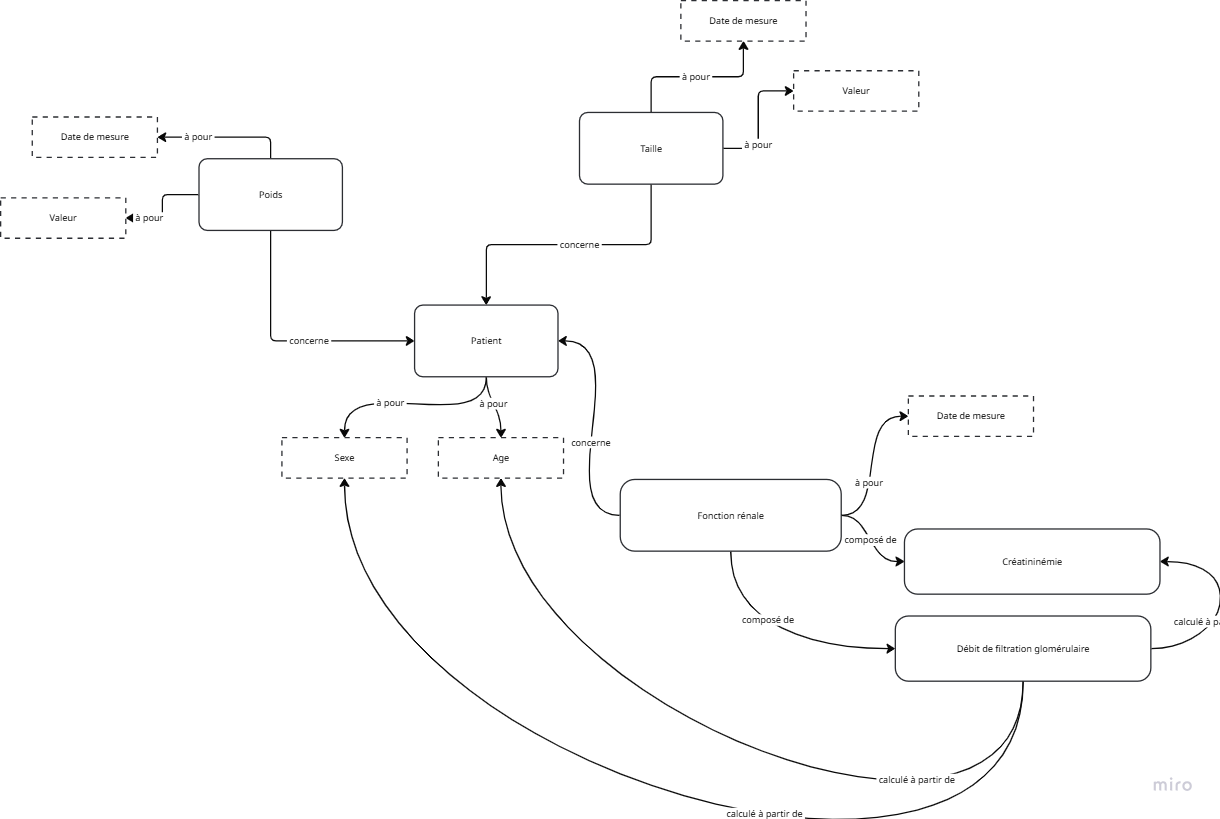
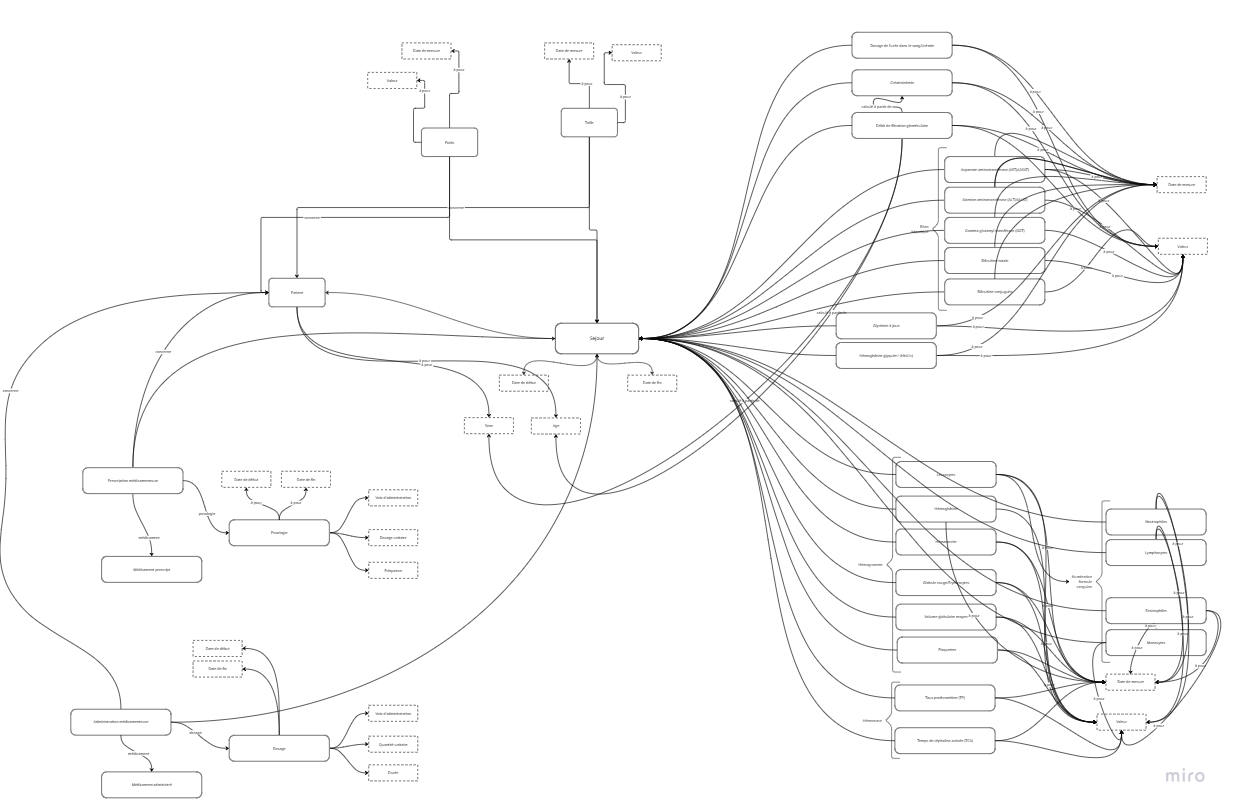
updating conceptual model & doc

diff --git a/input/pagecontent/use-core-instruction.md b/input/pagecontent/use-core-instruction.md
@@ -1,16 +1,47 @@
-#### Modéle conceptuel
+#### Modéle de donnée conceptuel
 
 <div style="text-align: center;" id="conceptual-model">
-  <img style="width: 100%" src="use-core-conceptual.png" alt="Modèle conceptuel"/>
+  <img style="width: 100%" src="use-core-conceptual.png" alt="Modèle de donnée conceptuel"/>
 </div>
 
-| Concept | Description | Note | Aussi connu comme | Lien/Dépendance |
-|---------|-------------|------|-------------------|-----------------|
-||||||
+<table width="100%">
+  <tr><th>Concept</th><th>Description</th><th>Note</th><th>Aussi connu comme</th><th>Lien/Dépendance</th></tr>
+  <tr><td>Patient</td><td></td><td></td><td></td><td></td></tr>
+  <tr><td>Urémie</td><td></td><td></td><td>Dosage de l'urée dans le sang</td><td></td></tr>
+  <tr><td>Créatininémie</td><td></td><td></td><td></td><td></td></tr>
+  <tr><td>Débit de filtration glomérulaire</td><td></td><td></td><td></td><td>Créatininémie, sexe, âge</td></tr>
+  <tr><td>Glycémie à jeun</td><td></td><td></td><td></td><td></td></tr>
+  <tr><td>Hémoglobine glyquée</td><td></td><td></td><td>HbA1c</td><td></td></tr>
+  <tr><td>Aspartate aminotransférase (ASAT)</td><td></td><td></td><td>Aspartate aminotransférase (AST)</td><td></td></tr>
+  <tr><td>Alamine aminotransférase (ALAT)</td><td></td><td></td><td>Alamine aminotransférase (ALT)</td><td></td></tr>
+  <tr><td>Gamma-glutamyl transférase (GGT)</td><td></td><td></td><td></td><td></td></tr>
+  <tr><td>Bilirubine totale</td><td></td><td></td><td></td><td></td></tr>
+  <tr><td>Bilirubine conjuguée</td><td></td><td></td><td></td><td></td></tr>
+  <tr><td>Leucocytes</td><td></td><td></td><td></td><td></td></tr>
+  <tr><td>Hémoglobine</td><td></td><td></td><td></td><td></td></tr>
+  <tr><td>Hématocrite</td><td></td><td></td><td></td><td></td></tr>
+  <tr><td>Erythrocytes</td><td></td><td></td><td>Globule rouge</td><td></td></tr>
+  <tr><td>Volume globulaire moyen</td><td></td><td></td><td></td><td></td></tr>
+  <tr><td>Plaquettes</td><td></td><td></td><td></td><td></td></tr>
+  <tr><td>Neutrophiles</td><td></td><td></td><td></td><td></td></tr>
+  <tr><td>Lymphocytes</td><td></td><td></td><td></td><td></td></tr>
+  <tr><td>Eosinophiles</td><td></td><td></td><td></td><td></td></tr>
+  <tr><td>Monocytes</td><td></td><td></td><td></td><td></td></tr>
+  <tr><td>Taux prothrombine (TP)</td><td></td><td></td><td></td><td></td></tr>
+  <tr><td>Temps de céphaline activée (TCA)</td><td></td><td></td><td></td><td></td></tr>
+  <tr><td>Prescription médicamenteuse</td><td></td><td></td><td></td><td></td></tr>
+  <tr><td>Posologie</td><td></td><td></td><td></td><td></td></tr>
+  <tr><td>Médicament prescript</td><td></td><td></td><td></td><td></td></tr>
+  <tr><td>Administration médicamenteuse</td><td></td><td></td><td></td><td></td></tr>
+  <tr><td>Dosage</td><td></td><td></td><td></td><td></td></tr>
+  <tr><td>Médicament administré</td><td></td><td></td><td></td><td></td></tr>
+  <tr><td>Poids</td><td></td><td></td><td></td><td></td></tr>
+  <tr><td>Taille</td><td></td><td></td><td></td><td></td></tr>
+</table>
 
 #### Formulaire des exigences
 
-Dans notre approche, nous formalisons les exigences d’un cas d'usage en créant une ressource `Questionnaire`, car celle-ci possède la flexibilité nécessaire pour représenter l'ensemble des variables d'un cas d'usage tout en les organisant. [Le formulaire des exigences](Questionnaire-UsageCore.html) est le résultat du processus de formalisation à partir du fichier [exigences de l'usage **Variables socles pour les EDSH** (fichier MSExcel)](DocumentReference-CoreExigences.html) du cas d'usage.
+Dans notre approche, nous formalisons les exigences d’un cas d'usage en créant une ressource `Questionnaire`, car celle-ci possède la flexibilité nécessaire pour représenter l'ensemble des variables d'un cas d'usage tout en les organisant. [Le formulaire des exigences](Questionnaire-UsageCore.html) est le résultat du processus de formalisation à partir du fichier d'[exigences de l'usage **Variables socles pour les EDSH** (fichier MSExcel)](DocumentReference-CoreExigences.html) du cas d'usage.
 
 #### Identification des applications sources
 
